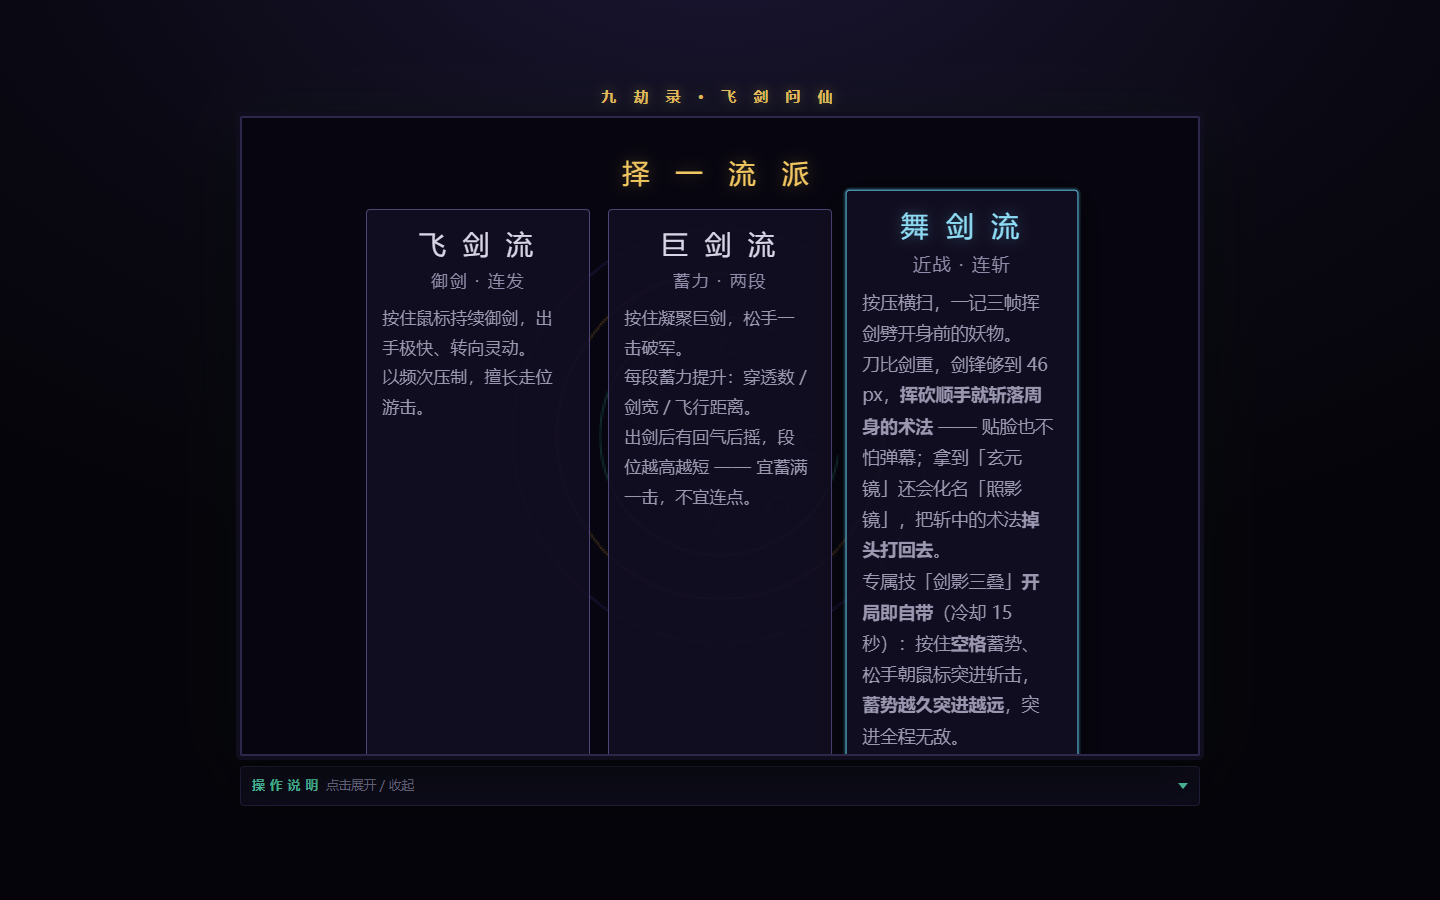
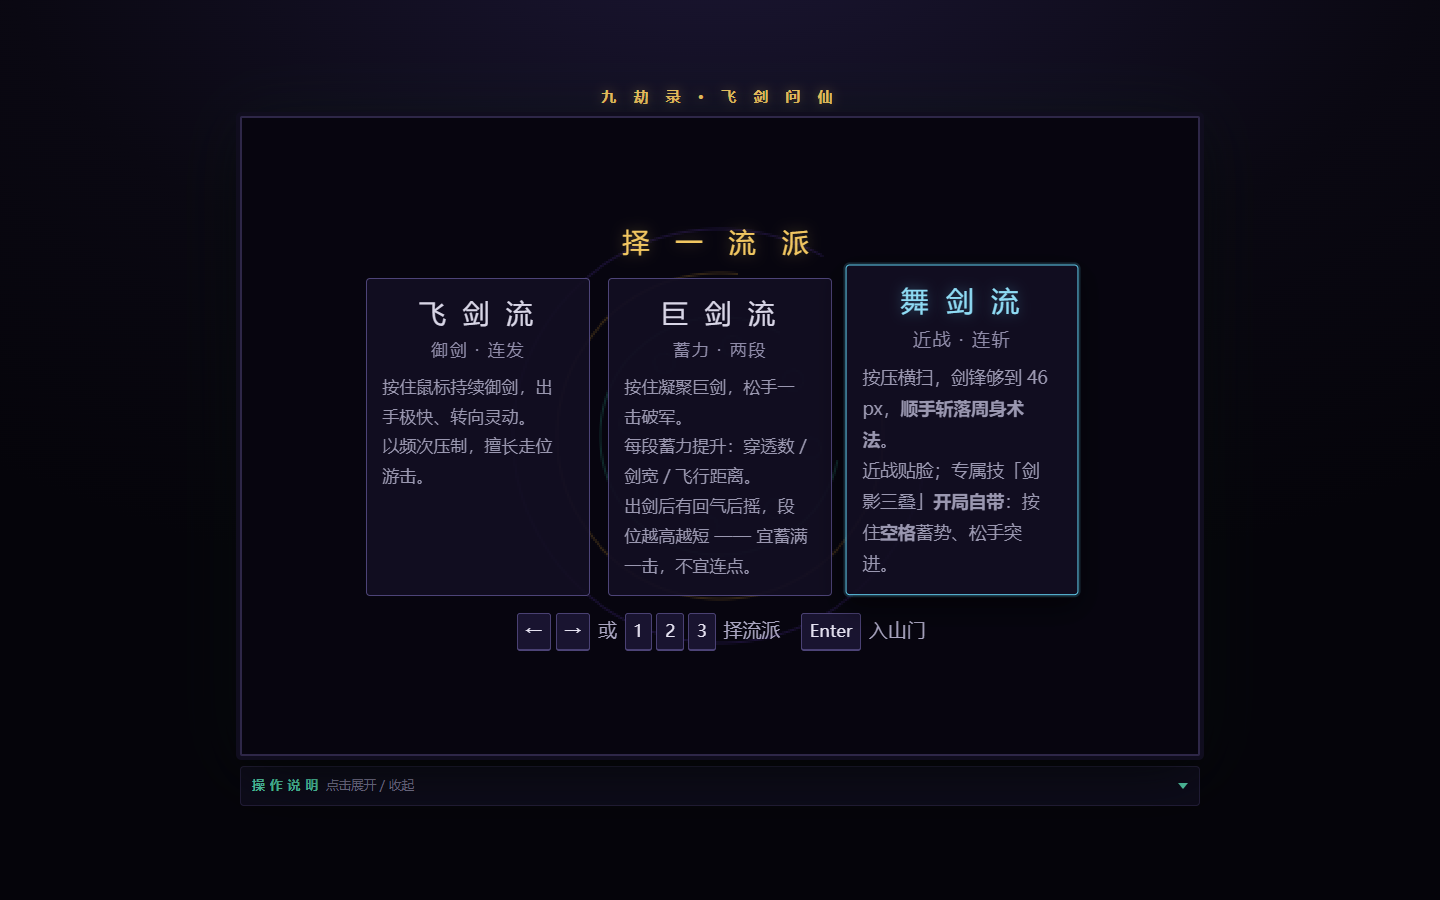
精简舞剑流的流派卡片说明；修掉 _t_interact 一条长期偶挂的断言
① 卡片说明
舞剑流卡片原本 208 字（飞剑流 32 / 巨剑流 67），选流派时明显压过另两派，
初版还得靠卡片内滚动才放得下。按飞剑流的风格压到 56 字：

    按压横扫，剑锋够到 46 px，顺手斩落周身术法。
    近战贴脸；专属技「剑影三叠」开局自带：按住空格蓄势、松手突进。

保留「近战射程 / 斩落术法 / 专属技自带与操作方式」四条要点，细节（三帧挥剑、
照影镜、五连斩必暴击、蓄势可被打断）留给底部折叠区的详细说明。
现在三张卡篇幅相当，卡片高度 609 → 318，不再需要内部滚动。

② _t_interact 的 flaky 断言（此前被误判成「并行抖动」）
「劈开后邻房那侧同步打开」无条件取 G.room.neighbors[0] 当北邻房，
而起始房是随机生成的 —— 北边没门时 nb 为 undefined，断言必然失败。
本次串行跑就挂了一次，随后单跑 3 次又挂 1 次，说明与并行无关。
改为先用 pickNorth() 挑一间「北边确实有邻房」的房间再开测，连跑 5 次全绿。

diff --git a/dev/test/_t_interact.js b/dev/test/_t_interact.js
@@ -371,9 +371,21 @@ function sec(t) { console.log('\n=== ' + t + ' ==='); }
       const G = window.Game;
       const out = {};
       /* 北墙开一道隐藏门（裂缝墙），并按规矩把邻房那侧同步成同一条密道 */
+      /* 起始房的邻房是随机的 —— 原先无条件取 neighbors[0]，北边没门时 nb 就是
+         undefined，断言「劈开后邻房那侧同步打开」会随机失败（这条偶挂过多次，
+         一直被当成并行抖动）。这里改成先挑一间「北边确实有邻房」的房间，让场景可复现。 */
+      const pickNorth = () => {
+        if (G.room.neighbors[0]) return G.room;
+        for (const r of G.floor.rooms.values()) {
+          if (r.type !== RT.BOSS && r.neighbors[0]) return r;
+        }
+        return null;
+      };
       const setup = (style) => {
         G.newRun(style);
         G.state = 'play';
+        const target = pickNorth();
+        if (target && target !== G.room) G.enterRoom(target, null);
         G.room.cleared = true;
         G.enemies.length = 0; G.bullets.length = 0; G.hazards.length = 0;
         const p = G.player;

diff --git a/index.html b/index.html
@@ -204,7 +204,7 @@
           <div class="pickCard" id="pickCard2">
             <div class="nm">舞 剑 流</div>
             <div class="tag">近战 · 连斩</div>
-            <div class="dsc">按压横扫，一记三帧挥剑劈开身前的妖物。<br>刀比剑重，剑锋够到 46 px，<b>挥砍顺手就斩落周身的术法</b> —— 贴脸也不怕弹幕；拿到「玄元镜」还会化名「照影镜」，把斩中的术法<b>掉头打回去</b>。<br>专属技「剑影三叠」<b>开局即自带</b>（冷却 15 秒）：按住<b>空格</b>蓄势、松手朝鼠标突进斩击，<b>蓄势越久突进越远</b>，突进全程无敌。<br>命中即可立即接下一段；三段化作五连斩且必定暴击。<br>蓄势时被打断则剑势溃散，技能立刻进冷却 —— 敢不敢贴上去，是这套流派的赌注。</div>
+            <div class="dsc">按压横扫，剑锋够到 46 px，<b>顺手斩落周身术法</b>。<br>近战贴脸；专属技「剑影三叠」<b>开局自带</b>：按住<b>空格</b>蓄势、松手突进。</div>
           </div>
         </div>
         <div class="pickTip">
